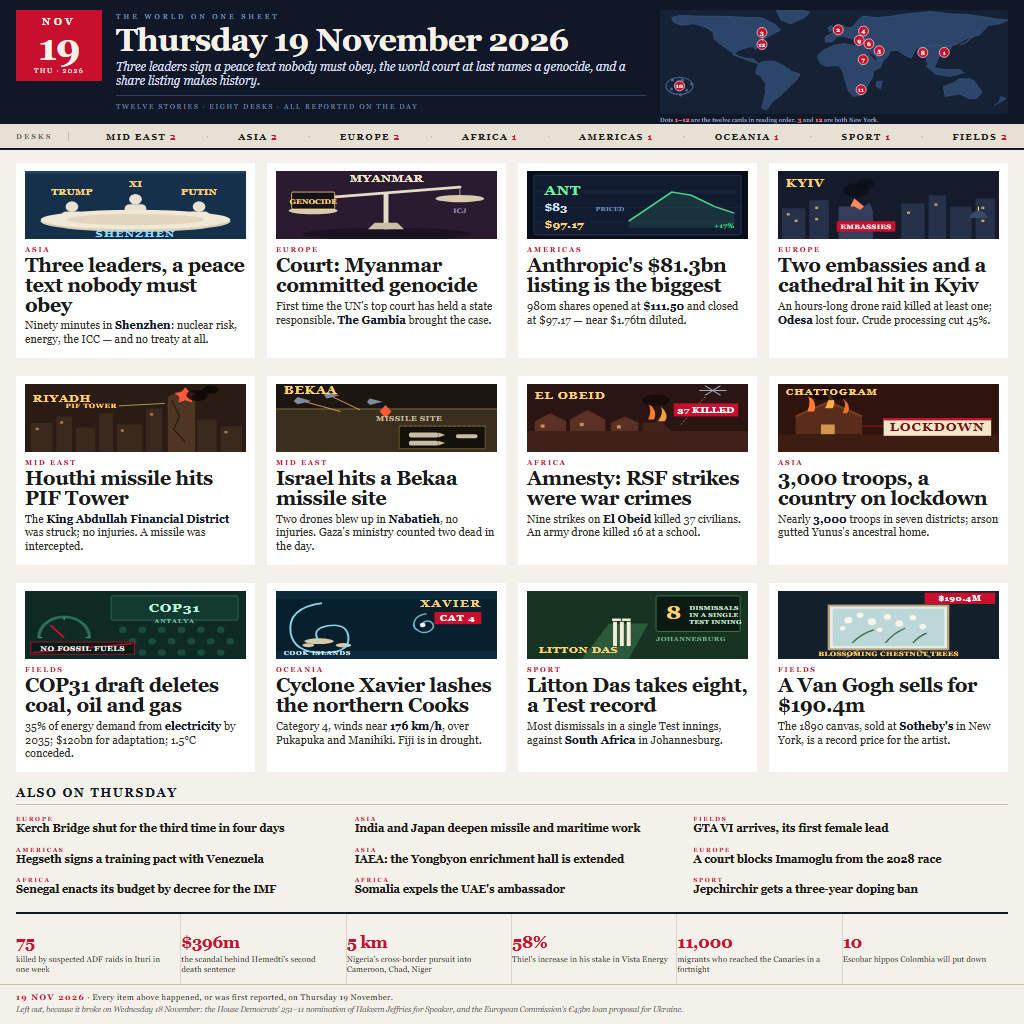
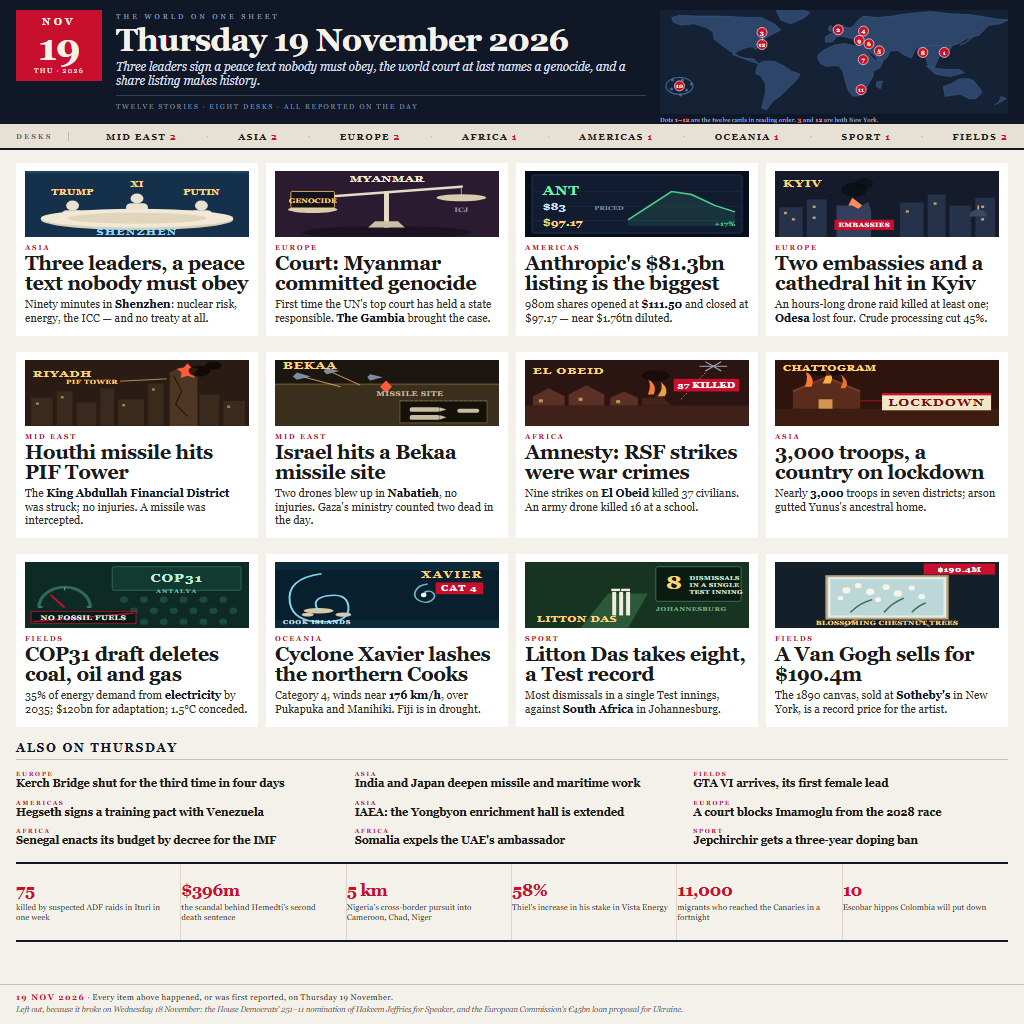
entry.png: render the committed page, three padding fixes

Changed region(s): [[0.0, 0.1562, 1.0, 0.9688], [0.4375, 0.1875, 0.4688, 0.2188]]

diff --git a/src/page.html b/src/page.html
@@ -39,9 +39,9 @@
   .tabs .sep { color: #b3aa9a; font-size: 8px; padding: 0 9px; }
   /* ---------- 3. cards ---------- */
   .cards { display: grid; grid-template-columns: repeat(4, 1fr);
-           column-gap: 12px; row-gap: 18px; padding: 13px 16px 0; }
+           column-gap: 8px; row-gap: 20px; padding: 13px 16px 0; }
   .card { background: #ffffff; padding: 8px 9px 12px; }
-  .art { display: block; width: 100%; height: 68px; }
+  .art { display: block; width: 100%; height: 66px; }
   .tag { font-size: 7.1px; font-weight: 700; letter-spacing: 1.7px; color: #c8102e; padding: 6px 0 2px; }
   .card h3 { margin: 0 0 4px; font-size: 20px; line-height: 0.98; font-weight: 700; letter-spacing: -0.4px; min-height: 40px; }
   .card p { margin: 0; font-size: 11px; line-height: 1.22; color: #34302a; }
@@ -58,7 +58,7 @@
   /* ---------- 5. figures ---------- */
   .figures { margin: 14px 16px 0; border-top: 2px solid #101828; border-bottom: 2px solid #101828;
              display: grid; grid-template-columns: repeat(6, 1fr); }
-  .fig { padding: 20px 8px 20px 0; border-right: 1px solid #ddd6c8; }
+  .fig { padding: 18px 8px 18px 0; border-right: 1px solid #ddd6c8; }
   .fig:last-child { border-right: none; }
   .fig .n { font-size: 17px; font-weight: 700; letter-spacing: -0.5px; color: #c8102e; line-height: 1; }
   .fig .c { font-size: 8.2px; line-height: 1.22; color: #34302a; padding-top: 3px; }
